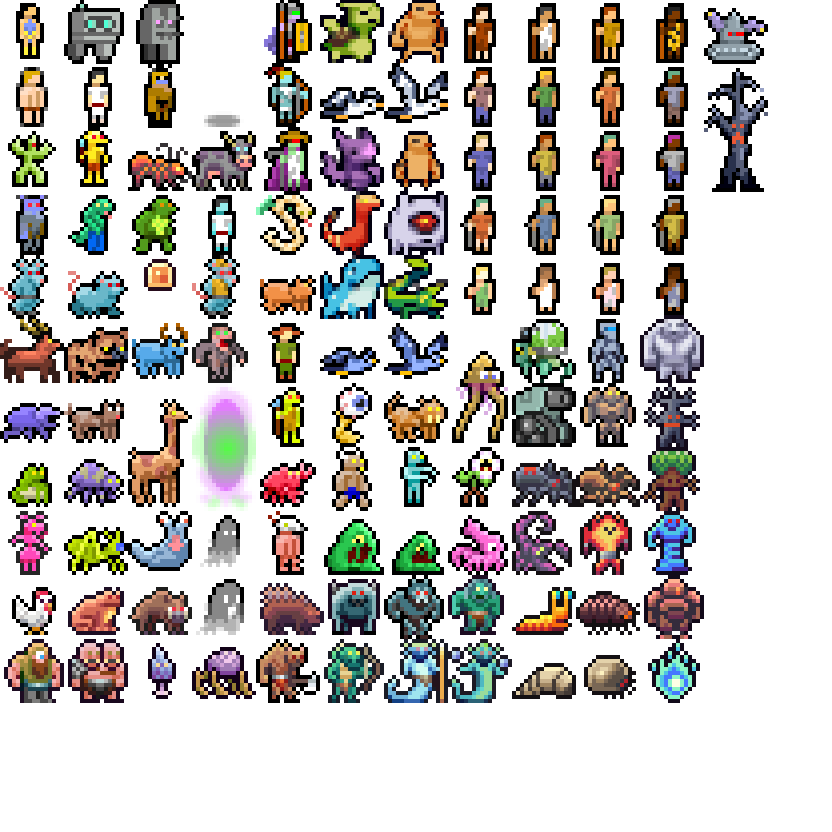
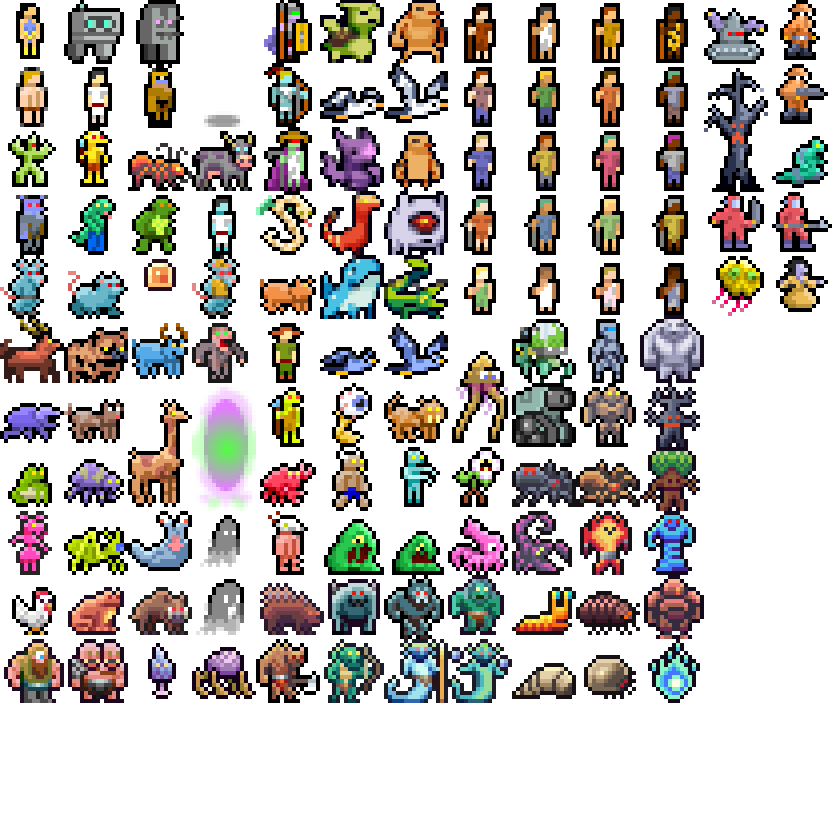
more mob sprites

Changed region(s): [[0.8438, 0.0, 1.0, 0.375]]

diff --git a/src/main/kotlin/render/tilesets/MobTileSet.kt b/src/main/kotlin/render/tilesets/MobTileSet.kt
@@ -120,4 +120,11 @@ fun ActorTileSet() =
         setTile(Glyph.WILLOWISP, SimpleTile(this, 10, 10))
         setTile(Glyph.ARMBOT, SimpleTile(this, 11, 0))
         setTile(Glyph.BIG_DEAD_TREE_MAN, SimpleTile(this, 11, 1))
+        setTile(Glyph.CHEM_RAIDER, SimpleTile(this, 12, 0))
+        setTile(Glyph.CHEM_GUNNER, SimpleTile(this, 12, 1))
+        setTile(Glyph.EELMAN, SimpleTile(this, 12, 2))
+        setTile(Glyph.RAD_SPEARMAN, SimpleTile(this, 12, 3))
+        setTile(Glyph.RAD_MELEE, SimpleTile(this, 11, 3))
+        setTile(Glyph.WITCH, SimpleTile(this, 12, 4))
+        setTile(Glyph.GASBAG, SimpleTile(this, 11, 4))
     }

diff --git a/src/main/kotlin/render/tilesets/Glyph.kt b/src/main/kotlin/render/tilesets/Glyph.kt
@@ -199,6 +199,13 @@ enum class Glyph(val tall: Boolean = false) {
     TANKBOT,
     ARMBOT,
     BIG_DEAD_TREE_MAN,
+    CHEM_RAIDER,
+    CHEM_GUNNER,
+    EELMAN,
+    RAD_SPEARMAN,
+    RAD_MELEE,
+    WITCH,
+    GASBAG,
 
     OAK_TREE,
     MAPLE_TREE,
